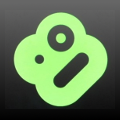
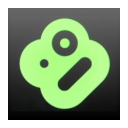
Added some 'breathing space' around the AppIcon.

diff --git a/boxee_simulator_app/gui/main_window.cpp b/boxee_simulator_app/gui/main_window.cpp
@@ -30,6 +30,8 @@ MainWindow::MainWindow(QWidget *parent) :
     connectSignals();
 
     loadSettings();
+
+    setWindowIcon(QIcon(":/images/appIcon.png"));
 }
 
 MainWindow::~MainWindow()
